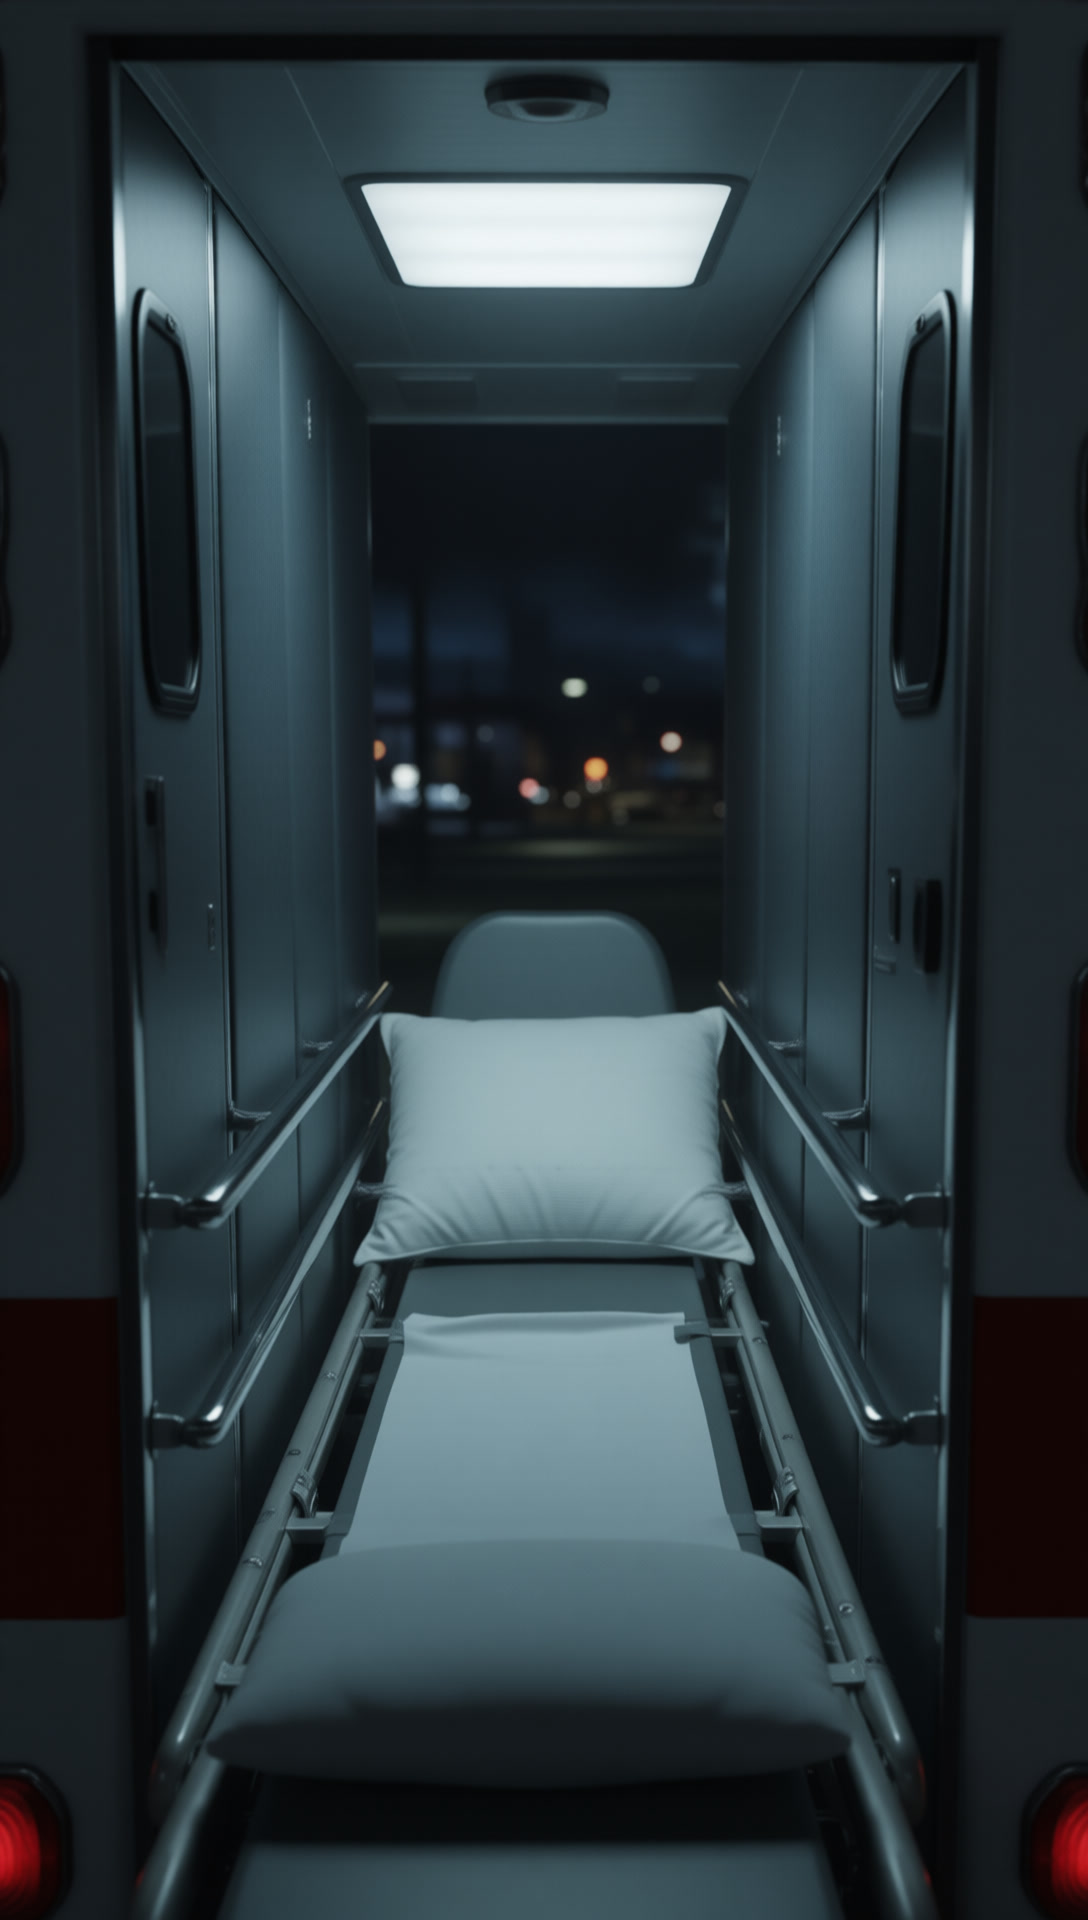
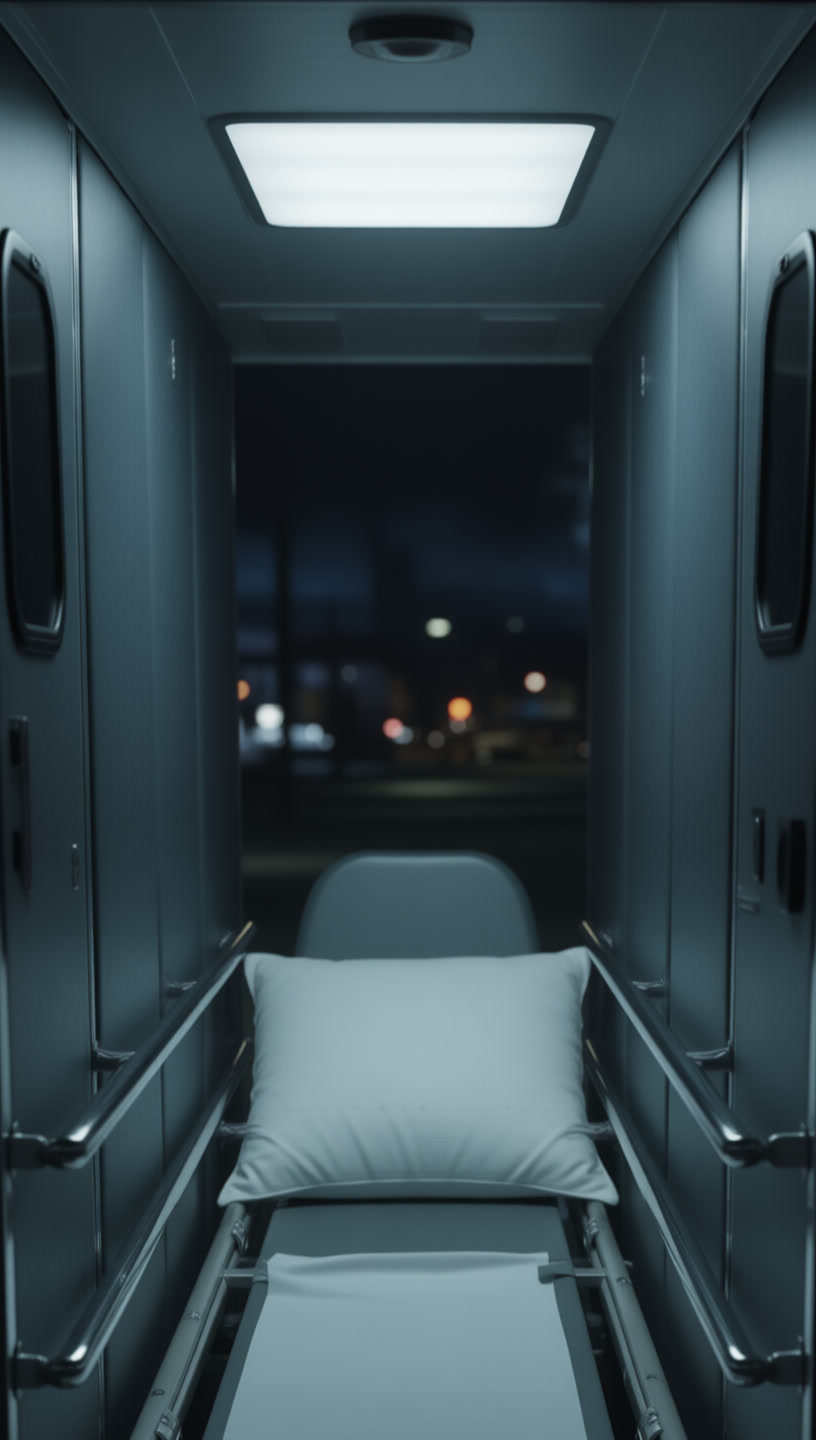
docs(drama): Till the Verdict f1 small fixes pulled forward (owner: fix what needs fixing)
redraw.py f1: one-change edits for Nora's forehead spots, Grant's lapel
mark, Peg's necklace pendant (both pictures), the 3-like mark on the new
lock, the notice on the bus shelter, the dark nightstand of the morning
bedroom, and a plain end wall in the ambulance. The ambulance reference is
cropped to the cabin (816x1440). Queued in the p3 slot of the running chain.

Claude-Session: https://claude.ai/code/session_017c4QxUsvPrQEPyJ3b3c6WY

diff --git a/docs/videos/series-plans/top40-2025-2026/2025-15-xingde-xiangyu/western/production/screen-test/redraw.py b/docs/videos/series-plans/top40-2025-2026/2025-15-xingde-xiangyu/western/production/screen-test/redraw.py
@@ -141,7 +141,27 @@ PROPS = [
      "washed-out oatmeal cardigan, seen from the side from her shoulder to her knees; the top edge of the frame cuts across her shoulder, so "
      "her neck, head and face are not in the frame at all; the bottom of the tote reaches her hip."),
 ]
-ROUNDS = {"s7": "sets", "s8": "sets", "a5": "people", "p4": "props"}
+# f1 (owner 2026-11-12 「該修就修」): the small fixes first listed for batch 2 that episodes 1-10 or the whole season use.
+# (id, refs file, size, what stays, the one change)
+FIXES = [
+    ("nora-portrait-freckles", "nora-portrait.jpg", art.BUST, "the face, eyes, hair, sweater, expression, framing, the plain grey backdrop and the lighting",
+     "her forehead is smooth and clear with no spots; her faint freckles are only across the bridge of her nose and the tops of her cheeks."),
+    ("grant-portrait-lapel", "grant-portrait.jpg", art.BUST, "the face, glasses, hair, suit, shirt, expression, framing, the plain grey backdrop and the lighting",
+     "the small dark rectangle on his left lapel is gone; both lapels are plain, bare fabric."),
+    ("peg-portrait-pendant", "peg-portrait.jpg", art.BUST, "the face, glasses, hair, cardigan, expression, framing, the plain grey backdrop and the lighting",
+     "her long brown wooden-bead necklace ends in plain beads with no pendant, no loop and no ring-shaped piece."),
+    ("peg-coat-pendant", "peg-coat.jpg", art.BUST, "the face, glasses, hair, coat, expression, framing, the plain grey backdrop and the lighting",
+     "her long brown wooden-bead necklace ends in plain beads with no pendant, no loop and no ring-shaped piece."),
+    ("door-out-gold-lock", "set-glass-house-door-out-gold.jpg", art.SETV, "the house, the door, the steps, the lamppost, the camera position and the light",
+     "the brushed-steel lock plate and handle on the door frame are completely plain and smooth, with no mark, number or letter on them."),
+    ("bus-stop-notice", "set-bus-stop.jpg", art.SETV, "the shelter, the bench, the harbor, the cranes, the camera position and the light",
+     "the paper notice on the shelter's glass is gone; that glass panel is plain clear glass like the others; the containers across the water carry no readable markings."),
+    ("bedroom-am-nightstand", "set-glass-house-bedroom-am.jpg", art.SETV, "the room, the bed, the glass wall, the sea, the camera position and the light",
+     "the small nightstand between the bed and the glass is pale oak instead of dark wood, with only a clear glass of water, a small flat white saucer and a white tissue box on it."),
+    ("ambulance-end-wall", "set-ambulance.jpg", (816, 1440), "the stretcher, the pillow, the rails, the side walls, the ceiling light, the camera position and the light",
+     "the far end of the cabin is a plain dark padded wall with no window and no lights outside."),
+]
+ROUNDS = {"s7": "sets", "s8": "sets", "a5": "people", "p4": "props", "f1": "fixes"}
 
 
 def jobs_for(name: str, work: Path) -> list[dict]:
@@ -159,6 +179,13 @@ def jobs_for(name: str, work: Path) -> list[dict]:
             for t, take in enumerate(("a", "b")):
                 jid = f"prop-{pid}-{take}"
                 jobs.append(build.job(jid, f"p4 {pid} {take}", [art.CANVAS[size]], prompt, size, 761000 + pos * 10 + t, f"p4-{jid}.png"))
+    elif ROUNDS[name] == "fixes":
+        for pos, (fid, ref, size, keep, change) in enumerate(FIXES):
+            src = art.copy_ref(work, ref)
+            prompt = f"Edit image 1: keep {keep} exactly the same. Change only this: {change} {build.REAL}"
+            for t, take in enumerate(("a", "b")):
+                jid = f"{fid}-{take}"
+                jobs.append(build.job(jid, f"f1 {fid} {take}", [src], prompt, size, 717000 + pos * 10 + t, f"f1-{jid}.png", latent="image1"))
     else:
         for pos, (pid, ref, size, keep, change) in enumerate(PEOPLE):
             src = art.copy_ref(work, ref)
@@ -180,7 +207,7 @@ def main(argv: list[str]) -> int:
     if a.list or not a.rounds:
         total = 0
         for r in ROUNDS:
-            n = 2 * (len(SETS[r]) if r in SETS else len(PROPS) if r == "p4" else len(PEOPLE))
+            n = 2 * (len(SETS[r]) if r in SETS else len(PROPS) if r == "p4" else len(FIXES) if r == "f1" else len(PEOPLE))
             total += n
             print(f"{r:4} {n:3} images {n * art.CU_PER_IMAGE:5.2f} CU")
         print(f"all  {total:3} images {total * art.CU_PER_IMAGE:5.2f} CU")
